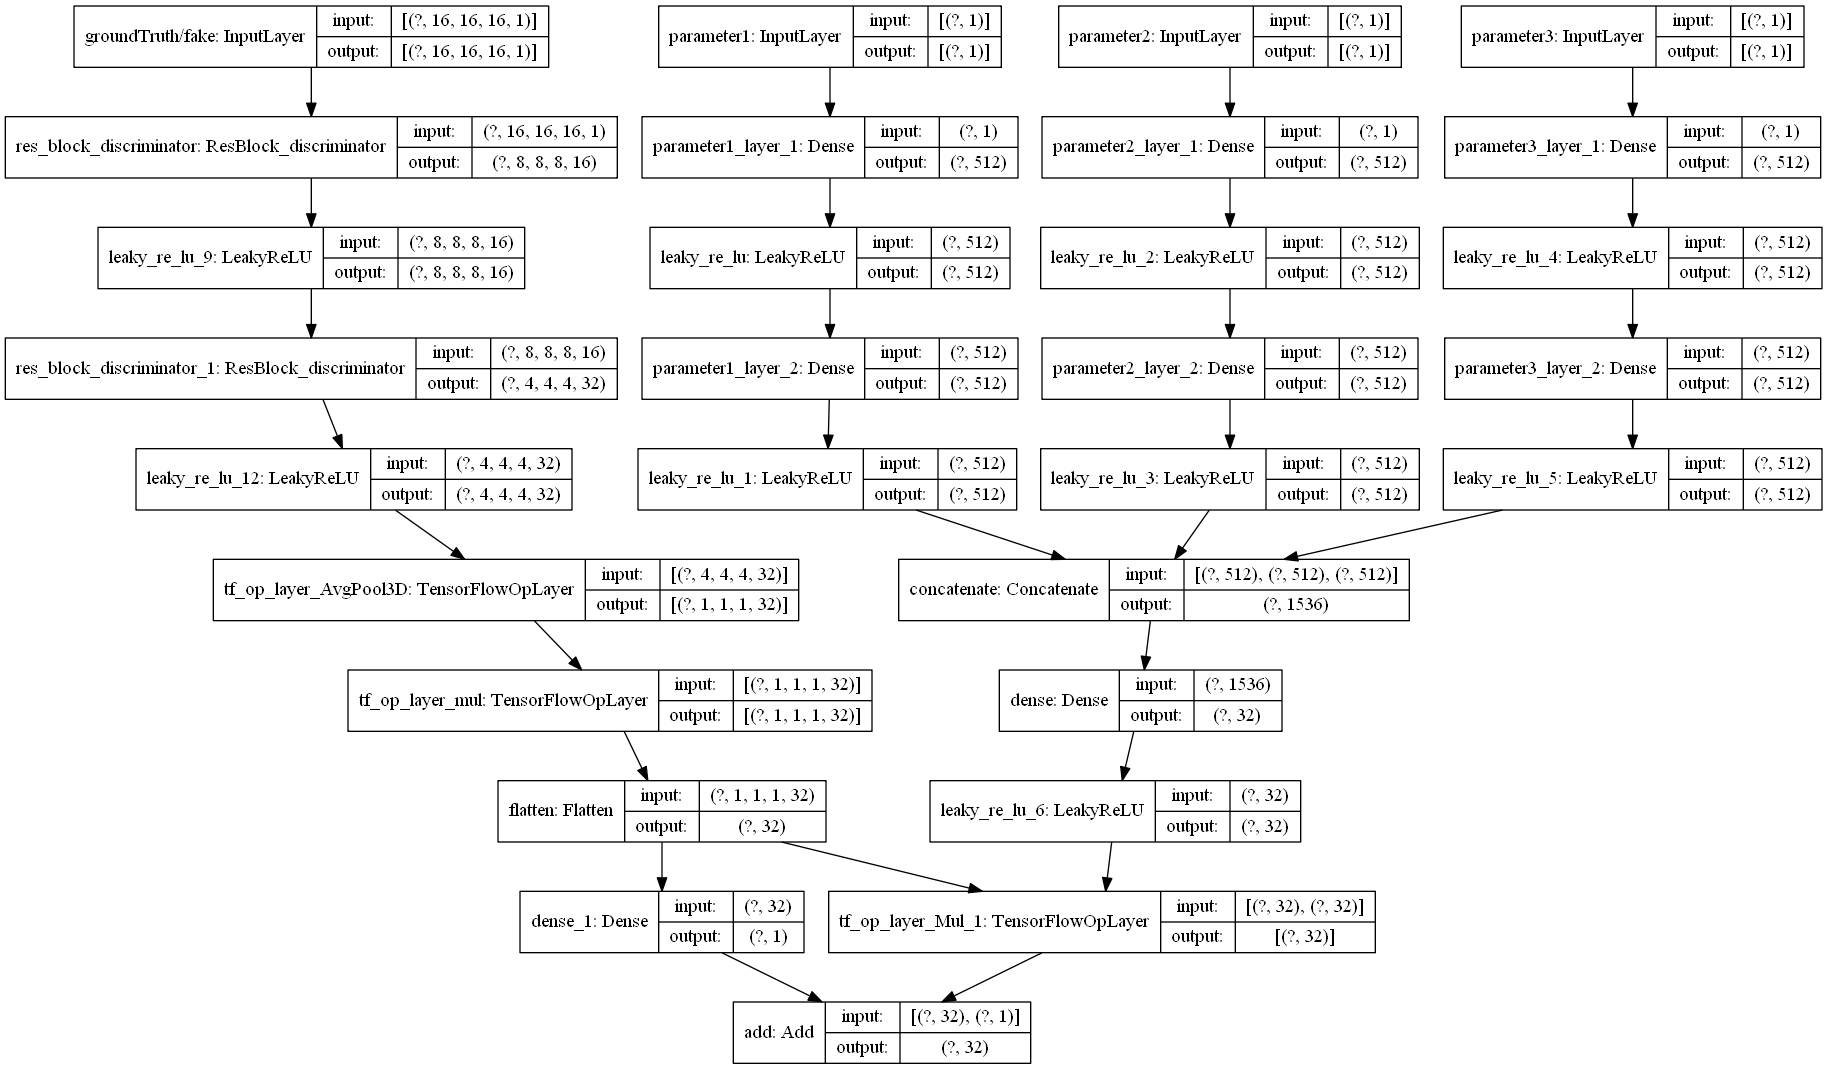
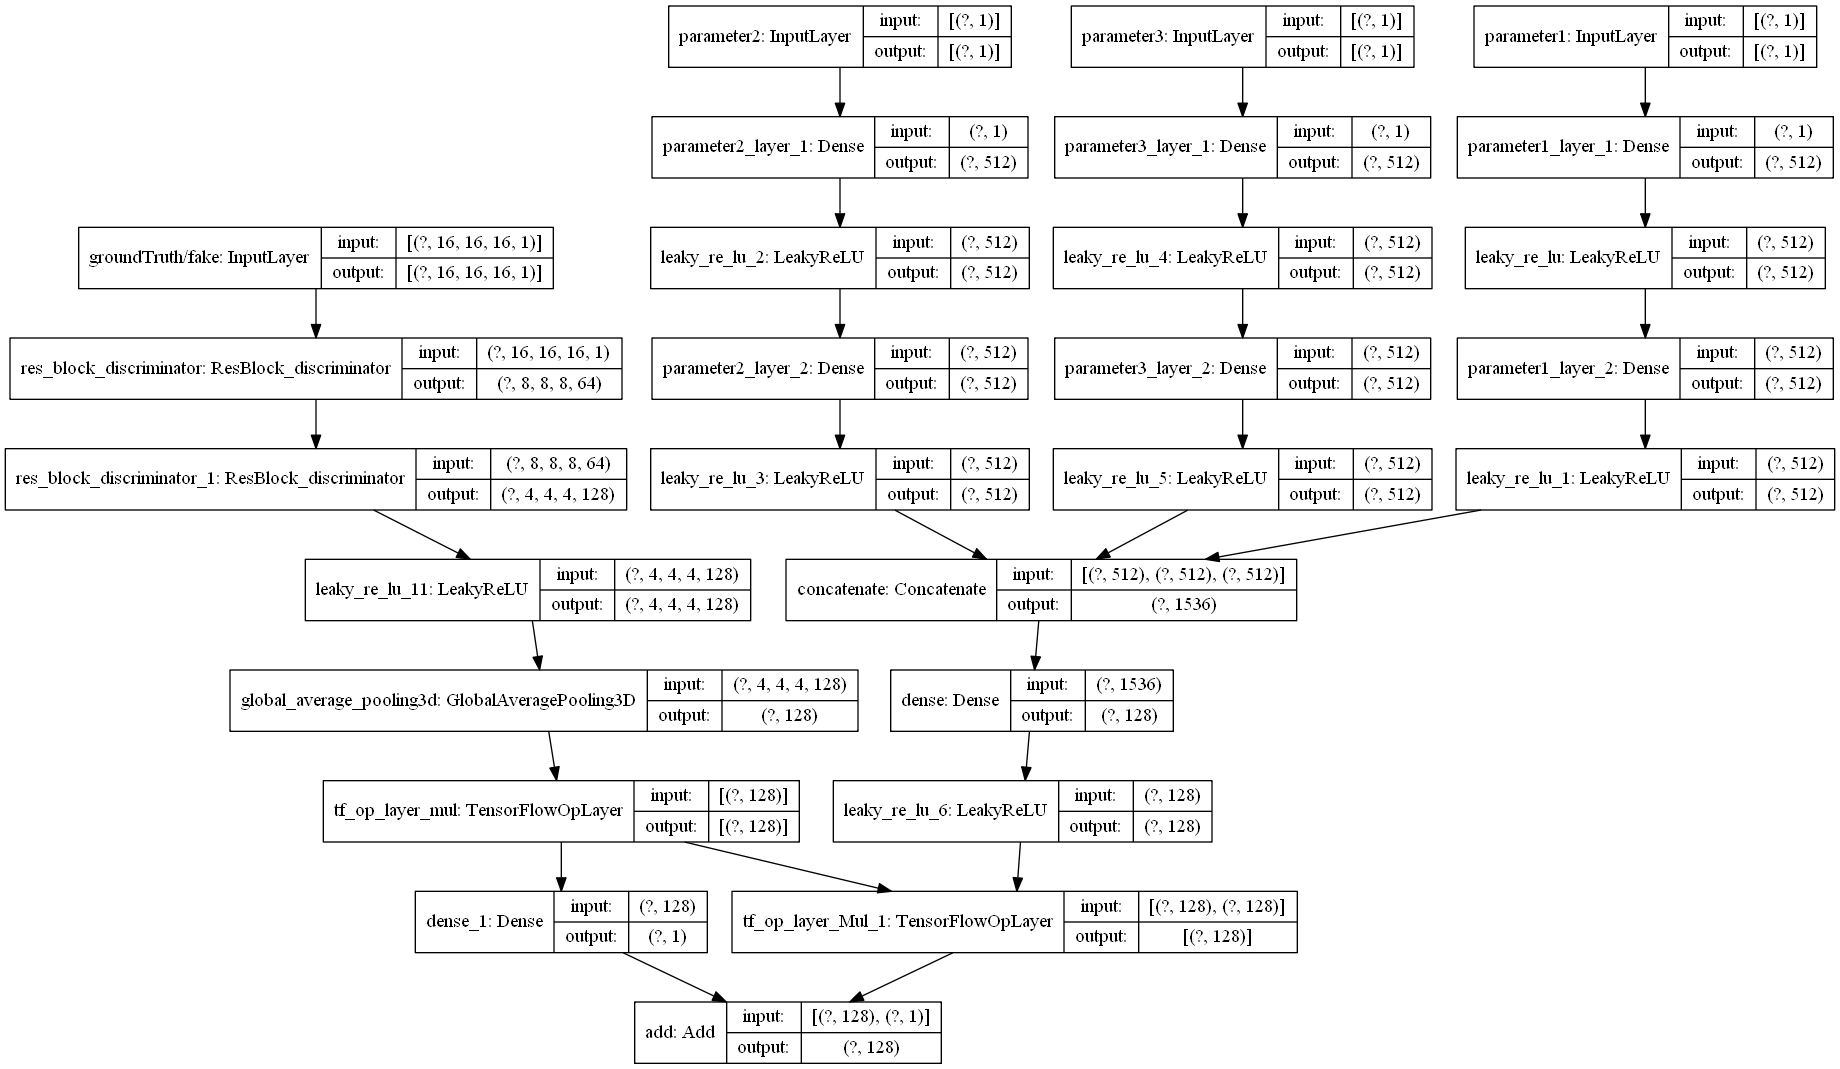
糟糕的performance

diff --git a/GAN.py b/GAN.py
@@ -16,8 +16,9 @@ class GAN():
         self.width = width
         self.height = height
 
-        self.filterNumber = 16
-        self.L2_coefficient =1/(length*width*height)
+        self.filterNumber = 64
+        self.L2_coefficient = 0.5
+        self.feature_cofficient = 0.5 
         self.dis = self.discriminator()
         #self.disOptimizer = keras.optimizers.RMSprop(lr = 0.0002, clipvalue = 1.0, decay = 1e-8)
         self.disOptimizer = keras.optimizers.Adam(lr = 0.0002, clipvalue = 1.0, decay = 1e-8)
@@ -25,7 +26,7 @@ class GAN():
         #self.genOptimizer = keras.optimizers.RMSprop(lr = 0.00005, clipvalue = 1.0, decay = 1e-8)
         self.genOptimizer = keras.optimizers.Adam(lr = 0.00005, clipvalue = 1.0, decay = 1e-8)                                            
         self.gradient_penality_width = 10.0
-        self.test = 0
+       
 
     def generator(self):
         parameter1_input = keras.Input(shape = (1), name = 'parameter1')
@@ -77,6 +78,7 @@ class GAN():
         return model
     
     def discriminator(self):
+        disConvOutput = []
         parameter1_input = keras.Input(shape = (1), name = 'parameter1')
         parameter2_input = keras.Input(shape = (1), name = 'parameter2')
         parameter3_input = keras.Input(shape = (1), name = 'parameter3')
@@ -114,34 +116,41 @@ class GAN():
         #d = SpectralNormalization(layers.Conv2D(self.filterNumber, kernel_size=3, strides=2, padding='same', use_bias=False))(dataInput)
         #d = SpectralNormalization(layers.Conv3D(self.filterNumber, kernel_size=3, strides=2, padding='same', use_bias=False))(dataInput)
         d = ResBlock_discriminator(self.filterNumber)(dataInput)
-        d = layers.LeakyReLU()(d)
+       # d = layers.LeakyReLU()(d)
+        disConvOutput.append(d)
         for i in range(1, int(log(self.width/2, 2))-1):
             d = ResBlock_discriminator((2**i)*self.filterNumber)(d)
+            disConvOutput.append(d)
             #d = SpectralNormalization(layers.Conv3D((2**i)*self.filterNumber, kernel_size=3, strides=2, padding='same', use_bias=False))(d)
             #d = SpectralNormalization(layers.Conv2D((2**i)*self.filterNumber, kernel_size=3, strides=2, padding='same', use_bias=False))(d)#
             
-            d = layers.LeakyReLU()(d)
+        d = layers.LeakyReLU()(d)
         
 
 
-        d = tf.nn.avg_pool(input = d, ksize= [1, 4, 4, 4,  1] , strides=[1, 1, 1, 1,  1], padding='VALID')*(self.height*self.width*self.length)
+        d = tf.keras.layers.GlobalAveragePooling3D()(d) * (self.height*self.width*self.length)
         
-        
-        d = layers.Flatten()(d)
         f1 = tf.multiply(d, xyz)
         f2 = layers.Dense(1)(d)
         r = layers.Add()([f1, f2])
-
-        model = keras.Model(inputs = [parameter1_input, parameter2_input, parameter3_input, dataInput], outputs = r)
+        
+        model = keras.Model(inputs = [parameter1_input, parameter2_input, parameter3_input, dataInput], outputs = [r, disConvOutput])
         #model = keras.Model(inputs = [dataInput], outputs = d)
         plot_model(model, to_file = "WGAN_Discriminator.png", show_shapes=True)
         return model
     
     
-    def generator_loss(self, fake_logit, real_data, fake_data_by_real_parameter):
-        l2_norm = tf.norm(tensor = (fake_data_by_real_parameter-real_data[1]), ord='euclidean')
-        g_loss = - tf.reduce_mean(fake_logit)
-        return g_loss, l2_norm
+    def generator_loss(self, real_logit, fake_logit, real_data, fake_data_by_real_parameter):
+        #volumetric loss
+        l2_norm = tf.norm(tensor = (fake_data_by_real_parameter-real_data[1]), ord='euclidean') / (self.length*self.width*self.height)
+        #Feature loss
+        feature_loss = 0
+        for i in range(len(fake_logit[1])):
+            feature_loss += tf.norm(tensor = (fake_logit[1][i]-real_logit[1][i]), ord='euclidean')
+        feature_loss/= len(fake_logit[1])
+        #Adversarial loss
+        g_loss = - tf.reduce_mean(fake_logit[0])
+        return g_loss, l2_norm, feature_loss
 
     def discriminator_loss(self, real_logit, fake_logit):
         real_loss = -tf.reduce_mean(real_logit)
@@ -160,7 +169,7 @@ class GAN():
             tape.watch(x_img)
             pred_logit = dis([real_data[0][0], real_data[0][1], real_data[0][2], x_img])
             #pred_logit = dis([x_img])
-        grad = tape.gradient(pred_logit, x_img)
+        grad = tape.gradient(pred_logit[0], x_img)
         norm = tf.norm(tf.reshape(grad, [tf.shape(grad)[0], -1]), axis = 1)
         gp_loss = tf.reduce_mean((norm-1.)**2)
         return gp_loss    
@@ -173,9 +182,10 @@ class GAN():
             fake_data_by_real_parameter = self.gen([real_data[0][0], real_data[0][1], real_data[0][2]],training = True) #generate by real parameter
 
             fake_logit = self.dis([random_vector1, random_vector2, random_vector3, fake_data_by_random_parameter], training = False)
+            real_logit = self.dis([real_data[0][0], real_data[0][1], real_data[0][2], fake_data_by_real_parameter], training = False)
             #fake_logit = self.dis([fake_data_by_random_parameter], training = False)
-            fake_loss, l2_norm = self.generator_loss(fake_logit, real_data, fake_data_by_real_parameter)
-            gLoss = fake_loss+self.L2_coefficient*l2_norm
+            fake_loss, l2_norm, feature_loss= self.generator_loss(real_logit, fake_logit, real_data, fake_data_by_real_parameter)
+            gLoss = fake_loss + self.L2_coefficient * l2_norm + self.feature_cofficient * feature_loss
         gradients = tape.gradient(gLoss, self.gen.trainable_variables)
         self.genOptimizer.apply_gradients(zip(gradients, self.gen.trainable_variables))
         return gLoss
@@ -183,14 +193,13 @@ class GAN():
     @tf.function
     def train_discriminator(self, real_data, random_vector1, random_vector2, random_vector3):
         with tf.GradientTape() as t:
-      
 
             fake_data = self.gen([random_vector1, random_vector2, random_vector3],training = True)
             real_logit = self.dis([real_data[0][0], real_data[0][1], real_data[0][2], real_data[1]] , training = True)
             #real_logit = self.dis([real_data[1]] , training = True)
             fake_logit = self.dis([random_vector1, random_vector2, random_vector3, fake_data], training = True)
             #fake_logit = self.dis([fake_data], training = True)
-            real_loss, fake_loss = self.discriminator_loss(real_logit, fake_logit)
+            real_loss, fake_loss = self.discriminator_loss(real_logit[0], fake_logit[0])
             gp_loss = self.gradient_penality(partial(self.dis, training = True), real_data, fake_data)
             dLoss = (real_loss + fake_loss) + gp_loss*self.gradient_penality_width
 

diff --git a/resblock.py b/resblock.py
@@ -52,7 +52,7 @@ class ResBlock_discriminator(layers.Layer):
 
 
   def call(self, inputs, training=None):
-
+      
       x = self.relu0(inputs)
       x = self.conv_1(x)
       x = self.relu1(x)

diff --git a/config.py b/config.py
@@ -12,7 +12,7 @@ Nyx={
 'datasize' : 799,
 'trainSize' : 699,
 'testSize' : 100,
-'batchSize' : 64,
+'batchSize' : 32,
 'length' : 16,
 'width' : 16,
 'height' : 16,
